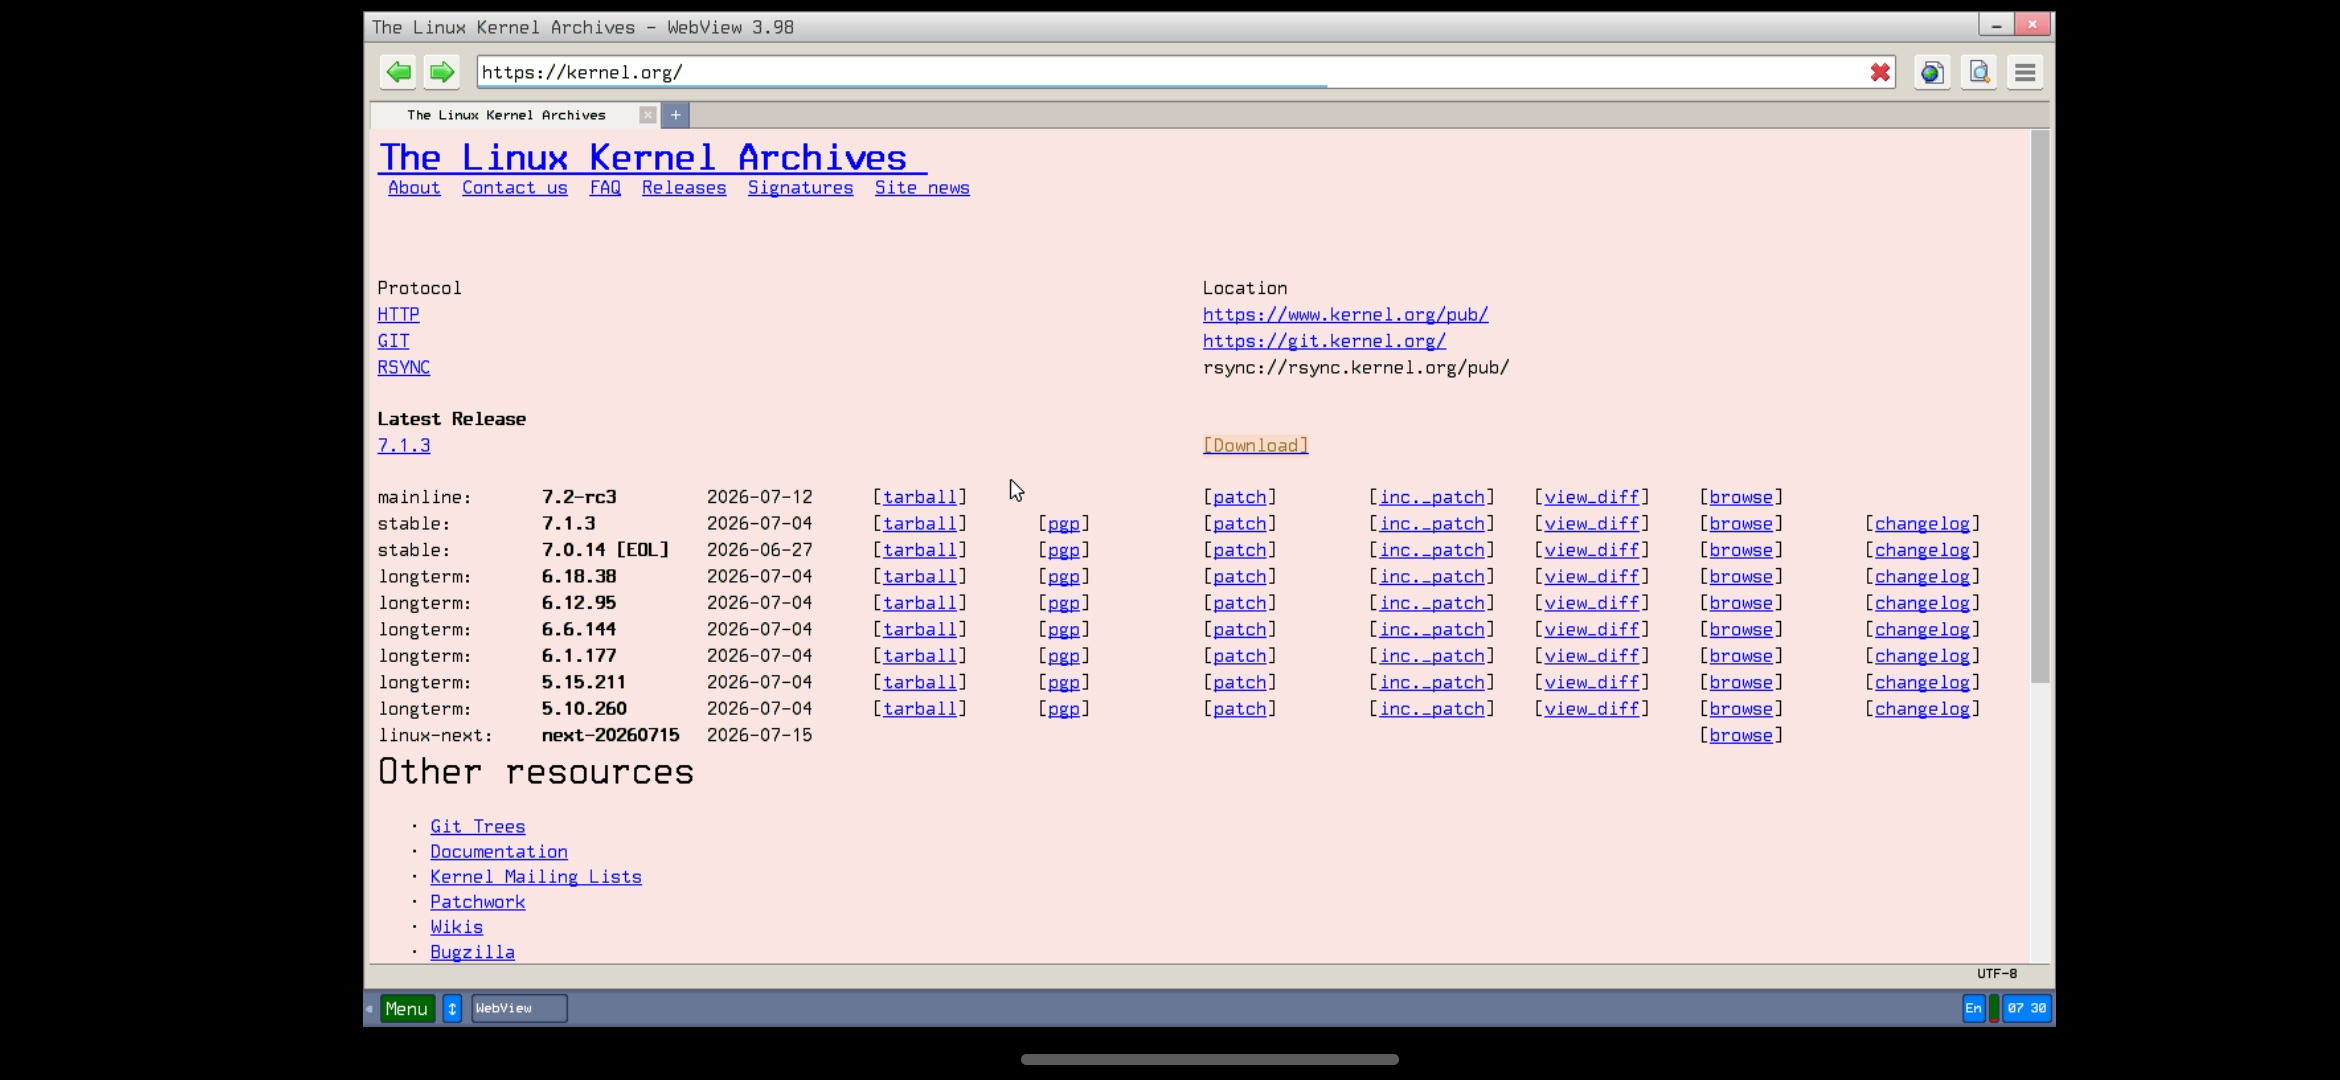
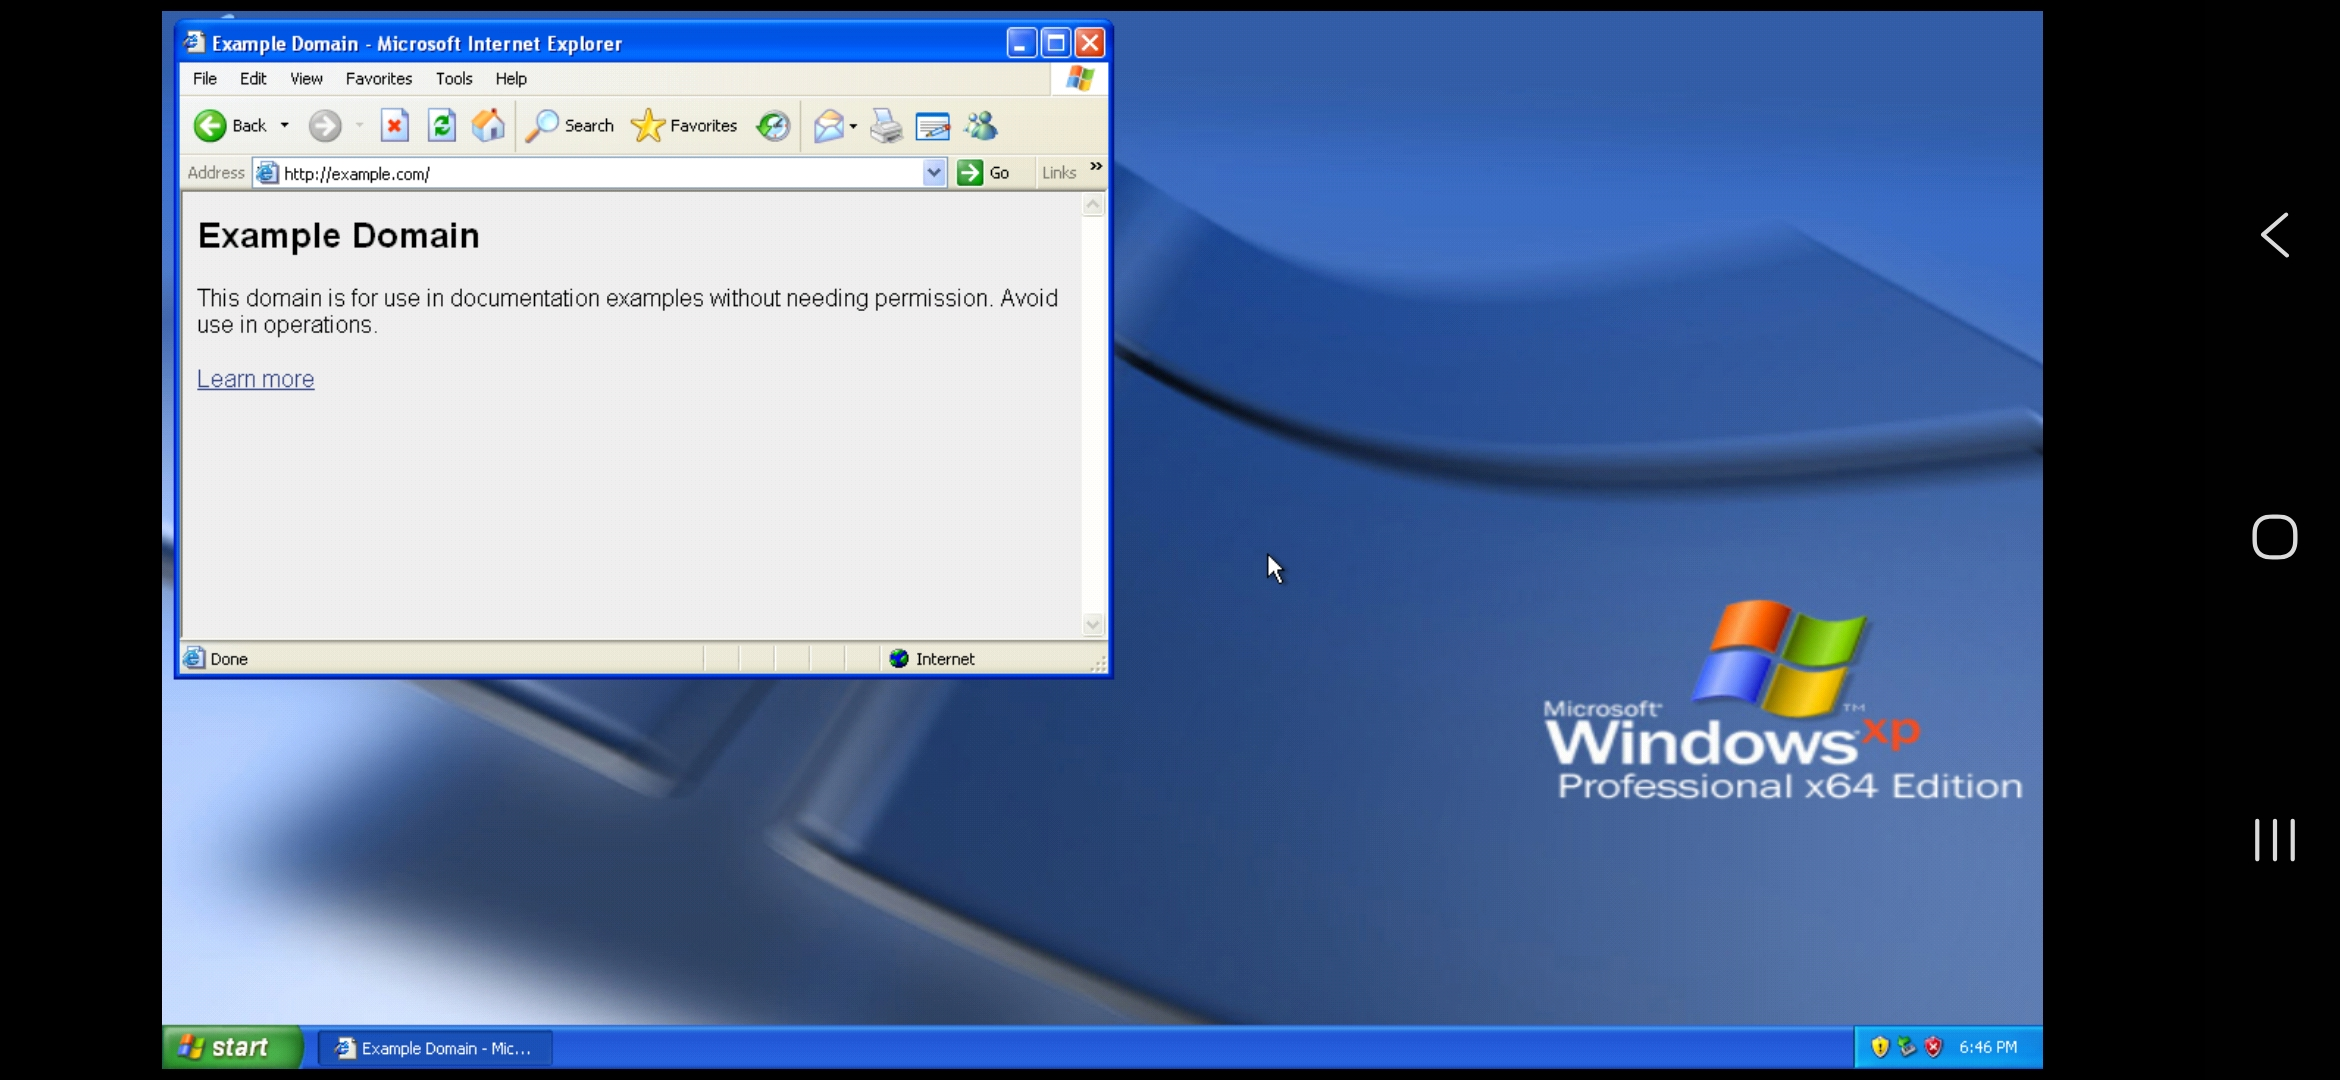
update README.md and sync values strings

diff --git a/README.md b/README.md
@@ -13,23 +13,33 @@ QEMU-based virtual machine emulator for Android
 
 Emulates a full virtual machine (CPU, RAM, disk, display, sound, network) on Android, allowing installation and execution of guest operating systems (Windows, Linux, BSD, legacy OSes) inside the app
 
-QubeVM currently runs on **QEMU 7.2.22**, built natively from the source for Android as a `.so` library, no third-party wrapper is used
+QubeVM is built upon **QEMU 11.0.2**, compiled natively for Android as a `.so` library without relying on third-party wrappers
 
 > [!NOTE]
 > QubeVM includes links to legally distributable operating systems only. Any other disk images, ISOs, or software run inside the app are the user's own responsibility.
+
+## Preview
+
+<img src="assets/1.jpg" width="500"/>
+<img src="assets/2.jpg" width="500"/>
+<img src="assets/3.jpg" width="500"/>
 
 ## Supported CPU Architecture
 
 x86 / x86_64 for now, planning to support more in the future
 
-## Acceleration
+### Acceleration
+QubeVM offers different ways to run your virtual machine depending on your device:
 
 | Mode | Status |
 |------|--------|
 | KVM | Supported for users with a custom kernel exposing /dev/kvm, hardware accelerated and significantly faster than TCG. Not available on stock Android by default, read below for more info |
 | TCG (software emulation, single-threaded) | Default, works on all devices |
 | MTTCG (Multi-Threaded TCG) | Supported, runs guest vCPUs on separate host threads for better SMP performance |
-| High Priority Mode | Supported, runs the VM emulation thread at its greatest state for improved performance |
+| High Priority Mode | Supported, runs the VM emulation thread at its greatest speed for improved performance |
+
+> [!CAUTION]
+> **High Priority Mode** may cause device overheating. Ensure your device has adequate cooling during extended sessions
 
 ## Display
 
@@ -37,23 +47,6 @@ Qube supports two display modes:
 
 - **SDL**, the default mode, smooth and supports audio, good for high stability
 - **VNC**, requires an external VNC client, runs at 60Hz refresh rate, good for reducing screen tearing
-
-## Features
-
-- **Disk image creation**, create new virtual disks in **qcow2** format directly from the app (with preset templates: 1G, 2G, 4G, 10G, 20G maximum), as well as raw image support
-- **Floppy drives**, attach/mount `.img` floppy disk images
-- **CD-ROM / optical drives**, attach/mount `.iso` images for OS installation media
-- **Shared folder**, share a folder between the host (Android) and the guest OS for file exchange, without needing network transfer
-
-## Screenshots
-
-| KolibriOS runs on Qube |
-|:---:|
-| <img src="assets/1.jpg" width="500"/> |
-
-| KolibriOS runs with network access | KolibriOS runs glxgears |
-|:---:|:---:|
-| <img src="assets/2.jpg" width="250"/> | <img src="assets/3.jpg" width="250"/> |
 
 ## Network Support
 
@@ -69,9 +62,8 @@ Users running a **custom kernel** with KVM enabled can use KVM acceleration inst
 ## Translations
 
 Contributions from translators are welcome. Feel free to open a pull request to add or improve a language
-
-[translation/](translation/)
+[Translation Files](translation/)
 
 ## Credits
 
-QubeVM is a forked version of the <a href="https://github.com/limboemu/limbo">Limbo PC Emulator</a>
+QubeVM is a modified and improved version of the [Limbo PC Emulator](https://github.com/limboemu/limbo).